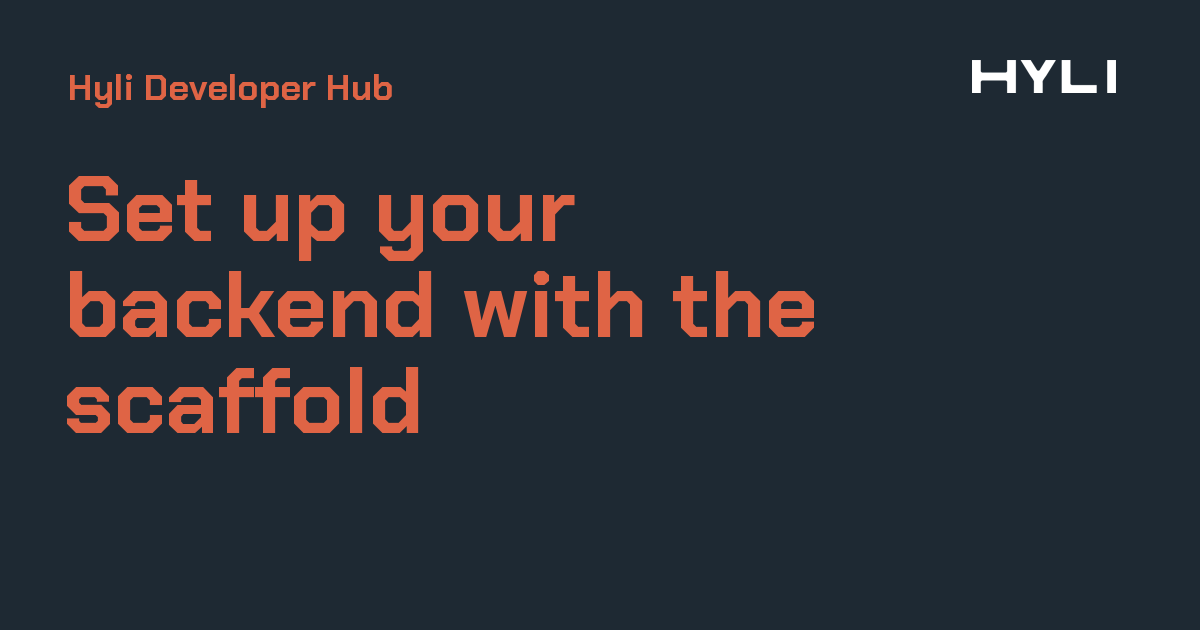
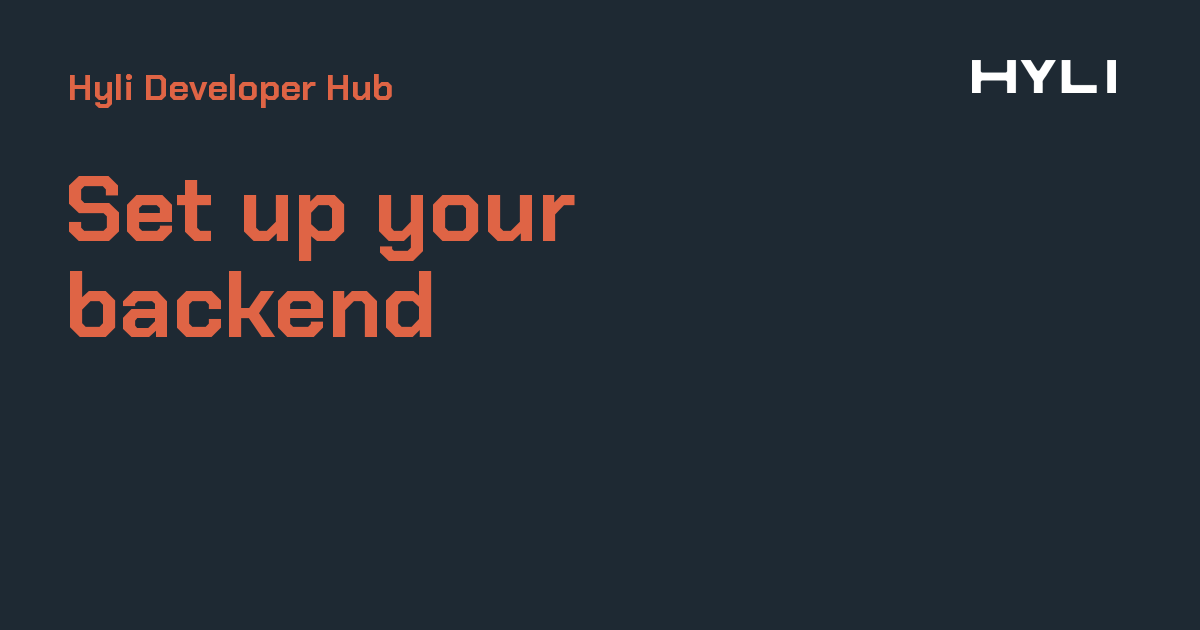
Deployed 08e373f with MkDocs version: 1.6.1

Changed region(s): [[0.37, 0.4222, 0.6783, 0.5429], [0.0308, 0.573, 0.37, 0.6937]]

diff --git a/concepts/proof-generation/index.html b/concepts/proof-generation/index.html
@@ -423,7 +423,7 @@
   
   
   <span class="md-ellipsis">
-    Set up your backend with the scaffold
+    Set up your backend
     
   </span>
   
@@ -678,13 +678,13 @@
     <ul class="md-nav__list" data-md-component="toc" data-md-scrollfix>
       
         <li class="md-nav__item">
-  <a href="#generating-zero-knowledge-proofs-for-hyli" class="md-nav__link">
+  <a href="#zero-knowledge-proofs-on-hyli" class="md-nav__link">
     <span class="md-ellipsis">
-      Generating zero-knowledge proofs for Hyli
+      Zero-knowledge proofs on Hyli
     </span>
   </a>
   
-    <nav class="md-nav" aria-label="Generating zero-knowledge proofs for Hyli">
+    <nav class="md-nav" aria-label="Zero-knowledge proofs on Hyli">
       <ul class="md-nav__list">
         
           <li class="md-nav__item">
@@ -697,18 +697,42 @@
 </li>
         
           <li class="md-nav__item">
-  <a href="#how-to-generate-a-zero-knowledge-proof" class="md-nav__link">
+  <a href="#choose-how-you-prove" class="md-nav__link">
     <span class="md-ellipsis">
-      How to generate a zero-knowledge proof
+      Choose how you prove
+    </span>
+  </a>
+  
+</li>
+        
+      </ul>
+    </nav>
+  
+</li>
+      
+        <li class="md-nav__item">
+  <a href="#how-to-generate-proofs" class="md-nav__link">
+    <span class="md-ellipsis">
+      How to generate proofs
+    </span>
+  </a>
+  
+    <nav class="md-nav" aria-label="How to generate proofs">
+      <ul class="md-nav__list">
+        
+          <li class="md-nav__item">
+  <a href="#choose-where-you-prove" class="md-nav__link">
+    <span class="md-ellipsis">
+      Choose where you prove
     </span>
   </a>
   
 </li>
         
           <li class="md-nav__item">
-  <a href="#our-supported-proving-schemes" class="md-nav__link">
+  <a href="#autoproving-through-our-scaffold" class="md-nav__link">
     <span class="md-ellipsis">
-      Our supported proving schemes
+      Autoproving through our scaffold
     </span>
   </a>
   
@@ -1363,13 +1387,13 @@
     <ul class="md-nav__list" data-md-component="toc" data-md-scrollfix>
       
         <li class="md-nav__item">
-  <a href="#generating-zero-knowledge-proofs-for-hyli" class="md-nav__link">
+  <a href="#zero-knowledge-proofs-on-hyli" class="md-nav__link">
     <span class="md-ellipsis">
-      Generating zero-knowledge proofs for Hyli
+      Zero-knowledge proofs on Hyli
     </span>
   </a>
   
-    <nav class="md-nav" aria-label="Generating zero-knowledge proofs for Hyli">
+    <nav class="md-nav" aria-label="Zero-knowledge proofs on Hyli">
       <ul class="md-nav__list">
         
           <li class="md-nav__item">
@@ -1382,18 +1406,42 @@
 </li>
         
           <li class="md-nav__item">
-  <a href="#how-to-generate-a-zero-knowledge-proof" class="md-nav__link">
+  <a href="#choose-how-you-prove" class="md-nav__link">
     <span class="md-ellipsis">
-      How to generate a zero-knowledge proof
+      Choose how you prove
+    </span>
+  </a>
+  
+</li>
+        
+      </ul>
+    </nav>
+  
+</li>
+      
+        <li class="md-nav__item">
+  <a href="#how-to-generate-proofs" class="md-nav__link">
+    <span class="md-ellipsis">
+      How to generate proofs
+    </span>
+  </a>
+  
+    <nav class="md-nav" aria-label="How to generate proofs">
+      <ul class="md-nav__list">
+        
+          <li class="md-nav__item">
+  <a href="#choose-where-you-prove" class="md-nav__link">
+    <span class="md-ellipsis">
+      Choose where you prove
     </span>
   </a>
   
 </li>
         
           <li class="md-nav__item">
-  <a href="#our-supported-proving-schemes" class="md-nav__link">
+  <a href="#autoproving-through-our-scaffold" class="md-nav__link">
     <span class="md-ellipsis">
-      Our supported proving schemes
+      Autoproving through our scaffold
     </span>
   </a>
   
@@ -1455,14 +1503,25 @@
 <p>Hyli allows you to build unchained applications by leveraging zero-knowledge proofs. They allow you to avoid onchain execution, guarantee privacy, and customize your application while maintaining composability with other smart contracts.</p>
 <p>With Hyli, generate your proof wherever you prefer, then send it for native onchain verification and settlement. This process enables scalable, modular applications with customizable proving schemes.</p>
 <p>If you're a complete beginner with zero-knowledge proofs, <a href="https://blog.hyli.org/a-simple-introduction-to-zero-knowledge-proofs-zkp/">our no-code introduction</a> might help.</p>
-<h2 id="generating-zero-knowledge-proofs-for-hyli">Generating zero-knowledge proofs for Hyli</h2>
+<h2 id="zero-knowledge-proofs-on-hyli">Zero-knowledge proofs on Hyli</h2>
 <h3 id="choose-what-you-prove">Choose what you prove</h3>
 <p>Each application defines its proof logic. This means that each application developer can decide <strong>what information</strong> gets proven: for Hyli, proof settlement is a Success or a Failure. You define what that means for your app.</p>
 <p>Each app developer also defines what the <strong>public and private inputs</strong> of their app will be: what information should remain private and what should go onchain?</p>
-<h3 id="how-to-generate-a-zero-knowledge-proof">How to generate a zero-knowledge proof</h3>
+<h3 id="choose-how-you-prove">Choose how you prove</h3>
+<p>We support as many proving schemes we can, giving you the flexibility to choose the most suitable protocol for your specific use case.</p>
+<p>We've written templates for some of <a href="../../reference/supported-proving-schemes/">our supported programs</a>. Clone them to <a href="../../quickstart/your-first-smart-contract/">get started</a> with smart contract writing.</p>
+<p>We also verify these natively, without the need for a ZK proof.</p>
+<ul>
+<li>sha3_256</li>
+<li>BLST signatures</li>
+<li>Secp256k1 signatures</li>
+</ul>
 <p>There are <a href="https://github.com/microbecode/zk-languages">many ZK languages</a>. Hyli aims to verify as many as possible.</p>
 <p>DSLs, like Circom, are specific languages that usually compile down to a specific circuit. They're good, but they're complex and may have a high learning curve.</p>
 <p>zkVMs prove the correct execution of arbitrary code. They allow you to build ZK applications in a certain language without having to build a circuit around it. There are two main types of zkVMs: Cairo and RISC-V. You can benchmark your Rust code and find the best zkVM for your needs with <a href="https://github.com/MatteoMer/any-zkvm">the any-zkvm template</a>.</p>
+<p>We will support more types, including Cairo-based zkVMs and DSLs, in the future, and plan to support all major proving schemes eventually. The next proving schemes we're aiming to support are <a href="https://www.cairo-lang.org/docs/">Cairo</a> via Stwo and <a href="https://github.com/arkworks-rs/groth16">Groth16</a>.</p>
+<h2 id="how-to-generate-proofs">How to generate proofs</h2>
+<h3 id="choose-where-you-prove">Choose where you prove</h3>
 <p>Each application can generate its proof in whichever place fits best.</p>
 <table>
 <thead>
@@ -1494,15 +1553,11 @@
 </tr>
 </tbody>
 </table>
-<h3 id="our-supported-proving-schemes">Our supported proving schemes</h3>
-<p>Proving schemes are the cryptographic protocols that make zero-knowledge proofs usable. We support as many as we can, giving you the flexibility to choose the most suitable protocol for your specific use case.</p>
-<p>We've written templates for some of <a href="../../reference/supported-proving-schemes/">our supported programs</a>. Clone them to <a href="../../quickstart/your-first-smart-contract/">get started</a> with smart contract writing.</p>
-<p>We also verify these natively, without the need for a ZK proof.</p>
-<ul>
-<li>sha3_256</li>
-<li>BLST signatures</li>
-</ul>
-<p>We will support more types, including Cairo-based zkVMs and DSLs, in the future, and plan to support all major proving schemes eventually. The next proving schemes we're aiming to support are <a href="https://www.cairo-lang.org/docs/">Cairo</a> via Stwo and <a href="https://github.com/arkworks-rs/groth16">Groth16</a>.</p>
+<h3 id="autoproving-through-our-scaffold">Autoproving through our scaffold</h3>
+<p><a href="https://github.com/hyli-org/app-scaffold">Hyli’s scaffold</a> includes a built-in AutoProver service that automatically detects transactions related to your contract. It generates the corresponding proof and submits the associated proof transaction to Hyli.</p>
+<p>With autoproving in place, you don’t need to manage custom proving flows. Just write your contract and connect a frontend—the scaffold handles everything else.
+This setup is ideal for projects where you want minimal backend setup and an easier onboarding experience.</p>
+<p>Visit the <a href="https://github.com/hyli-org/app-scaffold">scaffold repository</a> or follow <a href="../../quickstart/scaffold/">the quickstart instructions</a>.</p>
 <h3 id="our-proof-generation-partners">Our proof generation partners</h3>
 <p>If you choose to work with an external prover or proving market, you can choose from one of our partners in that area and benefit from a better Hyli integration.</p>
 <p>We recommend checking out <a href="https://electron.dev/">Electron</a>, <a href="https://www.fermah.xyz/">Fermah</a>, <a href="https://www.kakarot.org/">Kakarot</a>, <a href="https://www.marlin.org/">Marlin</a>, <a href="https://nexus.xyz/">Nexus</a>, <a href="https://www.nodekit.xyz/">Nodekit</a>, <a href="http://zerobase.pro/">ZEROBASE</a>, or <a href="https://zkcloud.com/">zkCloud</a>.</p>

diff --git a/quickstart/scaffold/index.html b/quickstart/scaffold/index.html
@@ -22,7 +22,7 @@
     
     
       
-        <title>Set up your backend with the scaffold - Hyli Developer Hub</title>
+        <title>Set up your backend - Hyli Developer Hub</title>
       
     
     
@@ -63,7 +63,7 @@
       
         <meta  property="og:type"  content="website" >
       
-        <meta  property="og:title"  content="Set up your backend with the scaffold - Hyli Developer Hub" >
+        <meta  property="og:title"  content="Set up your backend - Hyli Developer Hub" >
       
         <meta  property="og:description"  content="None" >
       
@@ -79,7 +79,7 @@
       
         <meta  name="twitter:card"  content="summary_large_image" >
       
-        <meta  name="twitter:title"  content="Set up your backend with the scaffold - Hyli Developer Hub" >
+        <meta  name="twitter:title"  content="Set up your backend - Hyli Developer Hub" >
       
         <meta  name="twitter:description"  content="None" >
       
@@ -104,7 +104,7 @@
     <div data-md-component="skip">
       
         
-        <a href="#set-up-your-backend-with-the-scaffold" class="md-skip">
+        <a href="#set-up-your-backend" class="md-skip">
           Skip to content
         </a>
       
@@ -139,7 +139,7 @@
         <div class="md-header__topic" data-md-component="header-topic">
           <span class="md-ellipsis">
             
-              Set up your backend with the scaffold
+              Set up your backend
             
           </span>
         </div>
@@ -432,7 +432,7 @@
   
   
   <span class="md-ellipsis">
-    Set up your backend with the scaffold
+    Set up your backend
     
   </span>
   
@@ -445,7 +445,7 @@
   
   
   <span class="md-ellipsis">
-    Set up your backend with the scaffold
+    Set up your backend
     
   </span>
   
@@ -1403,7 +1403,7 @@
   
 
 
-<div><h1 id="set-up-your-backend-with-the-scaffold">Set up your backend with the scaffold</h1>
+<div><h1 id="set-up-your-backend">Set up your backend</h1>
 <p>Use the <a href="https://github.com/hyli-org/app-scaffold">Hyli scaffold repository</a> to set up your backend service. It comes with a built-in autoprover and server implementation, so you can focus on your contracts and frontend.</p>
 <p>The application follows a client-server model:</p>
 <ul>

diff --git a/quickstart/example/index.html b/quickstart/example/index.html
@@ -423,7 +423,7 @@
   
   
   <span class="md-ellipsis">
-    Set up your backend with the scaffold
+    Set up your backend
     
   </span>
   
@@ -1394,7 +1394,7 @@
   <div class="nav-links">
     
         <a href="../scaffold/" class="nav-button prev">
-            &larr; Set up your backend with the scaffold
+            &larr; Set up your backend
         </a>
     
     

diff --git a/quickstart/your-first-smart-contract/index.html b/quickstart/your-first-smart-contract/index.html
@@ -483,7 +483,7 @@
   
   
   <span class="md-ellipsis">
-    Set up your backend with the scaffold
+    Set up your backend
     
   </span>
   
@@ -1419,7 +1419,7 @@
     
     
         <a href="../scaffold/" class="nav-button next">
-            Set up your backend with the scaffold &rarr;
+            Set up your backend &rarr;
         </a>
     
 </div>

diff --git a/404.html b/404.html
@@ -386,7 +386,7 @@
   
   
   <span class="md-ellipsis">
-    Set up your backend with the scaffold
+    Set up your backend
     
   </span>
   

diff --git a/concepts/hyli-vs-vintage-blockchains/index.html b/concepts/hyli-vs-vintage-blockchains/index.html
@@ -423,7 +423,7 @@
   
   
   <span class="md-ellipsis">
-    Set up your backend with the scaffold
+    Set up your backend
     
   </span>
   

diff --git a/concepts/identity/index.html b/concepts/identity/index.html
@@ -423,7 +423,7 @@
   
   
   <span class="md-ellipsis">
-    Set up your backend with the scaffold
+    Set up your backend
     
   </span>
   

diff --git a/concepts/index.html b/concepts/index.html
@@ -423,7 +423,7 @@
   
   
   <span class="md-ellipsis">
-    Set up your backend with the scaffold
+    Set up your backend
     
   </span>
   

diff --git a/concepts/pipelined-proving/index.html b/concepts/pipelined-proving/index.html
@@ -423,7 +423,7 @@
   
   
   <span class="md-ellipsis">
-    Set up your backend with the scaffold
+    Set up your backend
     
   </span>
   

diff --git a/concepts/proof-composition/index.html b/concepts/proof-composition/index.html
@@ -423,7 +423,7 @@
   
   
   <span class="md-ellipsis">
-    Set up your backend with the scaffold
+    Set up your backend
     
   </span>
   

diff --git a/concepts/smart-contracts/index.html b/concepts/smart-contracts/index.html
@@ -423,7 +423,7 @@
   
   
   <span class="md-ellipsis">
-    Set up your backend with the scaffold
+    Set up your backend
     
   </span>
   

diff --git a/concepts/transaction/index.html b/concepts/transaction/index.html
@@ -423,7 +423,7 @@
   
   
   <span class="md-ellipsis">
-    Set up your backend with the scaffold
+    Set up your backend
     
   </span>
   
